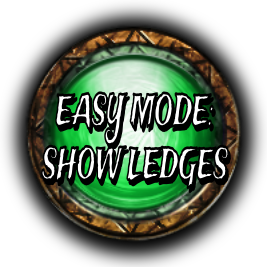
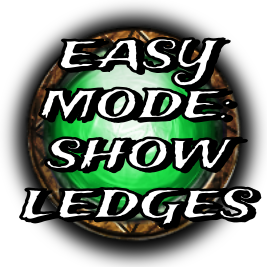
new and revamped image assets for site UI

diff --git a/public/build/scripts/states/gameState.js b/public/build/scripts/states/gameState.js
@@ -67,6 +67,7 @@ export default class gameState extends Phaser.State {
             this.game.camera.fade(0x000000, 2000);
             this.game.state.restart(true, false, { level: this._LEVEL, levels: this._LEVELS, newGame: false });
         }
+
         //platform collider
         this.game.physics.arcade.collide(this.hero, this.mapLayer);
     
@@ -82,16 +83,10 @@ export default class gameState extends Phaser.State {
         //run loot get function
         this.game.physics.arcade.overlap(this.hero, this.objectsGroup, this.getLoot, null, this);
 
-        this.hero.isOnGround = (this.hero.body.blocked.down || this.hero.body.touching.down || this.hero.body.onFloor());
-        this.hero.isBlocked = (this.hero.body.blocked.left || this.hero.body.blocked.right || this.hero.body.touching.left || this.hero.body.touching.right || this.hero.body.onWall());
-		this.hero.isAirborne = (!this.hero.isOnGround && !this.hero.isGrabbing);
+        this.heroConditions();
 
         if(this.hero.tapped && this.pointer.duration < 400) {
             this.tapJump();
-        }
-
-        if(this.hero.input.isDragged && this.pointer.duration < 300) {
-            this.tapLeap();
         }
 
         if(this.pointer.isDown) {
@@ -101,101 +96,74 @@ export default class gameState extends Phaser.State {
         if(this.pointer.isUp) {
             this.pointerUp();
         }
-
-        if(this.hero.isAirborne) {
-            if(this.runRight.isPlaying) {
-                this.runRight.stop(false, true);
-            } else if(this.runLeft.isPlaying) {
-                this.runLeft.stop(false, true);
-            } else if(this.idleLeft.isPlaying) {
-                this.idleLeft.stop(false, true);
-            } else if(this.idleRight.isPlaying) {
-                this.idleRight.stop(false, true);
-            }
-        } else if(this.hero.isOnGround) {
-            if(this.upRight.isPlaying) {
-                this.upRight.stop(false, true);
-            } else if(this.upLeft.isPlaying) {
-                this.upLeft.stop(false, true);
-            } else if (this.jumpLeft.isPlaying) {
-                this.jumpLeft.stop(false, true);
-            } else if (this.jumpRight.isPlaying) {
-                this.jumpRight.stop(false, true);
-            }
-        }
     }
 
     addControls() {
-        //jump: tap ON SPRITE
-        // leap: tap ON SPRITE and swipe: pointer movement within certain angle range
-        this.hero.events.onInputUp.add(()=>{ this.hero.tapped = false; });
-        this.hero.events.onInputOut.add(()=>{ this.hero.tapped = false; });
+        this.hero.events.onInputUp.add(()=>{ this.hero.tapped = false; }, this);
+        this.hero.events.onInputOut.add(()=>{ this.hero.tapped = false; }, this);
         this.hero.events.onInputDown.add(()=>{ 
             this.hero.tapped = true;
         });
         
         //establish pointer
         this.pointer = this.game.input.pointer1;
+    }
 
-        //pointer conditions
-        this.game.input.onDown.add(()=>{
-            this.pointerThreshold = this.game.physics.arcade.distanceToPointer(this.hero, this.pointer, true);
+    pointerConditions() {
+        this.angle = this.game.physics.arcade.angleToPointer(this.hero);
+        this.angleAbove = (this.angle > -1.8 && this.angle < -0.2);
+        this.angleBelow = (this.angle > 0.5 && this.angle < 1.5);
 
-            if(this.pointer.worldX < this.hero.body.x) {
-                this.pointerLeft = true;
-                this.pointerRight = false;
-            } else if(this.pointer.worldX > this.hero.body.x) {
-                this.pointerLeft = false;
-                this.pointerRight = true;
-            } else if(this.pointer.worldY < this.hero.body.y) {
-                this.pointerAbove = true;
-                this.pointerBelow = false;
-            } else if(this.pointer.worldY > this.hero.body.y) {
-                this.pointerAbove = false;
-                this.pointerBelow = true;
-            }
-        }, this);
+        this.pointerThreshold = this.game.physics.arcade.distanceToPointer(this.hero, this.pointer, true);
+        
+        if(this.pointer.worldX < this.hero.body.x) {
+            this.pointerLeft = true;
+            this.pointerRight = false;
+        } else if(this.pointer.worldX > this.hero.body.x) {
+            this.pointerLeft = false;
+            this.pointerRight = true;
+        }
+        if(this.pointer.worldY < this.hero.body.y) {
+            this.pointerAbove = true;
+            this.pointerBelow = false;
+        } else if (this.pointer.worldY > this.hero.body.y) {
+            this.pointerAbove = false;
+            this.pointerBelow = true;
+        }
     }
 
     pointerInput() {
-        if(this.pointerThreshold < 250 && this.pointerThreshold > this.hero.body.width && this.hero.isOnGround && !this.hero.tapped) {
-            if(this.pointerLeft) {
-                this.hero.whichDirection = 'left';
-                this.hero.body.velocity.x = -150;
-                if(this.hero.body.velocity.x < -150) {
-                    this.hero.body.velocity.x = -150;
-                }
-                this.hero.animations.play('run-left');
-            } else if(this.pointerRight) {
-                this.hero.whichDirection = 'right';
-                this.hero.body.velocity.x = 150;
-                if(this.hero.body.velocity.x > 150) {
-                    this.hero.body.velocity.x = 150;
-                }
-                this.hero.animations.play('run-right');
-            }
-        } else if(this.pointerThreshold > 250 || this.pointerThreshold < this.hero.body.width) {
-            this.pointerUp();
-        }
-    }
+        this.pointerConditions();
 
-    tapLeap() {
-        this.angle = this.game.physics.arcade.angleToPointer(this.hero);
-        this.hero.body.velocity.y = this.hero.body.velocity.y;
-        if(this.hero.body.velocity.y < -180) {
-            this.hero.body.velocity.y = -180;
-        }
-        if(this.hero.whichDirection === "left" && (this.angle < -1 && this.angle > -2.8)) {
-            this.hero.animations.play('jump-left');
-            this.hero.body.velocity.x = -180;
-            if(this.hero.body.velocity.x < -180) {
-                this.hero.body.velocity.x = -180;
+        if(!this.hero.tapped) {
+            if(this.angleAbove && this.pointerThreshold < 250 && this.pointerThreshold > this.hero.body.width && this.pointer.duration < 500) {
+                if(this.pointerLeft && !this.pointerRight) {
+                    this.hero.body.velocity.x = -150;
+                    this.hero.whichDirection = 'left';
+                    this.hero.animations.play('jump-left');
+                } else if(this.pointerRight && !this.pointerLeft) {
+                    this.hero.body.velocity.x = 150;
+                    this.hero.whichDirection = 'right';
+                    this.hero.animations.play('jump-right');
+                }
+                this.hero.body.velocity.y = -150;
+                if(this.hero.body.velocity.y < -150) {
+                    this.hero.body.velocity.y = -150;
+                }
             }
-        } else if(this.hero.whichDirection === "right" && (this.angle > -1 && this.angle < 0)) {
-            this.hero.animations.play('jump-right');
-            this.hero.body.velocity.x = 180;
-            if(this.hero.body.velocity.x > 180) {
-                this.hero.body.velocity.x = 180;
+    
+            if(!this.angleAbove && this.pointerThreshold < 250 && this.pointerThreshold > this.hero.body.width && this.hero.isOnGround) {
+                if(this.pointerLeft && !this.pointerRight) {
+                    this.hero.whichDirection = 'left';
+                    this.hero.body.velocity.x = -150;
+                    this.hero.animations.play('run-left');
+                } else if(this.pointerRight && !this.pointerLeft) {
+                    this.hero.whichDirection = 'right';
+                    this.hero.body.velocity.x = 150;
+                    this.hero.animations.play('run-right');
+                }
+            } else if(this.pointerThreshold > 250 || this.pointerThreshold < this.hero.body.width || this.angleAbove) {
+                this.pointerUp();
             }
         }
     }
@@ -222,7 +190,6 @@ export default class gameState extends Phaser.State {
     }
 
     ledgeHit(hero, ledge) {
-        //check difference between ledge coords and hero.left vs hero.right to determine which side ledge is on
         // if (this.hero.whichDirection === "left" && this.hero.body.velocity.y < 0 && this.grabKey.isDown) {
         //     hero.animations.play('grab-left');
         //     hero.alignIn(ledge, Phaser.TOP_LEFT, 15, 5); //offset accounts for sprite bounding box
@@ -268,8 +235,8 @@ export default class gameState extends Phaser.State {
         this.upRight.onComplete.add(()=> { this.hero.animations.play('idle-right'); }, this);
         this.upLeft.onComplete.add(()=> { this.hero.animations.play('idle-left'); }, this);
     
-        this.grabLeft.onStart.add(()=> { this.hero.body.immovable = true; this.hero.body.moves = false; this.hero.isGrabbing = true; this.hero.body.enable = false; this.controls.left.enabled = false; this.controls.right.enabled = false; }, this);
-        this.grabRight.onStart.add(()=> { this.hero.body.immovable = true; this.hero.body.moves = false; this.hero.isGrabbing = true; this.hero.body.enable = false; this.controls.left.enabled = false; this.controls.right.enabled = false; }, this);
+        this.grabLeft.onStart.add(()=> { this.hero.body.immovable = true; this.hero.body.moves = false; this.hero.isGrabbing = true; this.hero.body.enable = false; this.hero.isAirborne = false; /*this.controls.left.enabled = false; this.controls.right.enabled = false;*/ }, this);
+        this.grabRight.onStart.add(()=> { this.hero.body.immovable = true; this.hero.body.moves = false; this.hero.isGrabbing = true; this.hero.body.enable = false; this.hero.isAirborne = false; /*this.controls.left.enabled = false; this.controls.right.enabled = false;*/ }, this);
     
         this.climbLeft.onStart.add(()=> { 
             for (let index = 0; index < 18; index++) {
@@ -282,8 +249,8 @@ export default class gameState extends Phaser.State {
             }
         }, this);
     
-        this.climbLeft.onComplete.add(()=> { this.hero.position.x-=10; this.hero.body.enable = true; this.hero.body.immovable = false; this.hero.body.moves = true; this.hero.isGrabbing = false; this.hero.animations.play('idle-left'); this.controls.left.enabled = true; this.controls.right.enabled = true; }, this);
-        this.climbRight.onComplete.add(()=> { this.hero.position.x+=10; this.hero.body.enable = true; this.hero.body.immovable = false; this.hero.body.moves = true; this.hero.isGrabbing = false; this.hero.animations.play('idle-right'); this.controls.left.enabled = true; this.controls.right.enabled = true; }, this);
+        this.climbLeft.onComplete.add(()=> { this.hero.position.x-=10; this.hero.body.enable = true; this.hero.body.immovable = false; this.hero.body.moves = true; this.hero.isGrabbing = false; this.hero.animations.play('idle-left'); /*this.controls.left.enabled = true; this.controls.right.enabled = true;*/ }, this);
+        this.climbRight.onComplete.add(()=> { this.hero.position.x+=10; this.hero.body.enable = true; this.hero.body.immovable = false; this.hero.body.moves = true; this.hero.isGrabbing = false; this.hero.animations.play('idle-right'); /*this.controls.left.enabled = true; this.controls.right.enabled = true;*/ }, this);
     
         //play 'idle-right' by default
         this.hero.animations.play('idle-right');
@@ -321,9 +288,6 @@ export default class gameState extends Phaser.State {
         this.hero.body.setSize(this.hero.body.halfWidth-10, this.hero.body.height-5, 18, 3);
         this.hero.inputEnabled = true;
         this.hero.hitArea = this.hero.body.width * this.hero.body.height;
-        this.hero.input.enableDrag(true);
-        this.hero.input.setDragLock(true, false);
-        this.dragLimit = this.hero.body.width*3;
 		// this.hero.debug = true;
         //enable hero for slopes
         this.game.slopes.enable(this.hero);
@@ -336,7 +300,37 @@ export default class gameState extends Phaser.State {
         this.hero.isGrabbing = false;
         this.hero.tapped = false;
     }
-   
+
+    heroConditions() {
+        this.hero.isOnGround = (this.hero.body.blocked.down || this.hero.body.touching.down || this.hero.body.onFloor());
+        this.hero.isBlocked = (this.hero.body.blocked.left || this.hero.body.blocked.right || this.hero.body.touching.left || this.hero.body.touching.right || this.hero.body.onWall());
+		this.hero.isAirborne = (!this.hero.isOnGround && !this.hero.isGrabbing);
+
+        if(this.hero.isAirborne) {
+            if(this.runRight.isPlaying) {
+                this.runRight.stop(false, true);
+            } else if(this.runLeft.isPlaying) {
+                this.runLeft.stop(false, true);
+            }
+            if(this.idleLeft.isPlaying) {
+                this.idleLeft.stop(false, true);
+            } else if(this.idleRight.isPlaying) {
+                this.idleRight.stop(false, true);
+            }
+        } else if(this.hero.isOnGround) {
+            if(this.upRight.isPlaying) {
+                this.upRight.stop(false, true);
+            } else if(this.upLeft.isPlaying) {
+                this.upLeft.stop(false, true);
+            }
+            if (this.jumpLeft.isPlaying) {
+                this.jumpLeft.stop(false, true);
+            } else if (this.jumpRight.isPlaying) {
+                this.jumpRight.stop(false, true);
+            }
+        }
+    }
+
     makeMap() {
         this.map = this.game.add.tilemap(this._LEVELS[this._LEVEL]);
     
@@ -531,3 +525,98 @@ export default class gameState extends Phaser.State {
     //     this.game.debug.spriteBounds(this.hero, 'rgba(0,0,255,1)', false);
     // }
 }
+
+// // KEYBOARD CONTROLS
+// //from addControls function
+// //initiate cursor keys
+// this.controls = this.game.input.keyboard.createCursorKeys();
+// //add special controls for grab and climb
+// this.grabKey = this.game.input.keyboard.addKey(71); //'G'
+// this.climbKey = this.game.input.keyboard.addKey(67); //'C'
+
+// this.game.input.keyboard.addKeyCapture([37, 38, 39, 40 ]);
+
+// //anim-specific settings
+// this.controls.left.onUp.add(()=> { this.hero.animations.play('idle-left'); }, this);
+// this.controls.right.onUp.add(()=> { this.hero.animations.play('idle-right'); }, this);
+
+// this.controls.left.onDown.add(()=> { this.hero.whichDirection = 'left' }, this);
+// this.controls.right.onDown.add(()=> { this.hero.whichDirection = 'right' }, this);
+
+// this.climbKey.onDown.add(()=> {
+//     if (this.hero.whichDirection == 'left' && this.hero.isGrabbing) {
+//         this.hero.animations.play('climb-left');
+//     } else if (this.hero.whichDirection == 'right' && this.hero.isGrabbing) {
+//         this.hero.animations.play('climb-right');
+//     }
+// })
+
+////from update loop
+// //Running anims
+// if(this.controls.up.isUp && this.hero.isOnGround) {
+//     if (this.controls.left.isDown && this.controls.right.isUp) {
+//         this.hero.body.velocity.x = -150;
+//         this.hero.animations.play('run-left');
+//     } else if (this.controls.right.isDown && this.controls.left.isUp) {
+//         this.hero.body.velocity.x = 150;
+//         this.hero.animations.play('run-right');
+//     } 
+// } 
+
+// if(this.controls.up.isDown || this.hero.isAirborne) {
+//     if(this.runRight.isPlaying) {
+//         this.runRight.stop(false, true);
+//     } else if(this.runLeft.isPlaying) {
+//         this.runLeft.stop(false, true);
+//     } else if(this.idleLeft.isPlaying) {
+//         this.idleLeft.stop(false, true);
+//     } else if(this.idleRight.isPlaying) {
+//         this.idleRight.stop(false, true);
+//     }
+// }
+
+// //Jumping
+// if (this.controls.up.justDown && this.hero.isOnGround) {
+//     this.hero.body.velocity.y = -325;
+//     if(this.hero.body.velocity.y < -325) {
+//         this.hero.body.velocity.y = -325;
+//     }
+// }
+
+// if(this.controls.left.isUp && this.controls.right.isUp) {
+//     if (this.hero.isAirborne && this.hero.whichDirection == "left") {
+//         this.hero.animations.play('up-left');
+//     } else if (this.hero.isAirborne && this.hero.whichDirection == "right") {
+//         this.hero.animations.play('up-right');
+//     }
+// }
+
+// if(this.hero.whichDirection == "left" && this.hero.isAirborne && this.controls.left.isDown && this.controls.right.isUp) {
+//     this.hero.body.velocity.x = -180;
+//     this.hero.animations.play('jump-left');
+// } else if(this.hero.whichDirection == "right" && this.hero.isAirborne && this.controls.right.isDown && this.controls.left.isUp) {
+//     this.hero.body.velocity.x = 180;
+//     this.hero.animations.play('jump-right');
+// }
+
+// if(this.hero.isOnGround) {
+//     if(this.upRight.isPlaying) {
+//         this.upRight.stop(false, true);
+//     } else if(this.upLeft.isPlaying) {
+//         this.upLeft.stop(false, true);
+//     } else if (this.jumpLeft.isPlaying) {
+//         this.jumpLeft.stop(false, true);
+//     } else if (this.jumpRight.isPlaying) {
+//         this.jumpRight.stop(false, true);
+//     }
+// }
+
+// //ledge release
+// if(this.controls.down.isDown && (this.hero.body.immovable || !this.hero.body.moves || this.hero.isGrabbing)) {
+//     this.hero.body.immovable = false;
+//     this.hero.body.moves = true;
+//     this.hero.isGrabbing = false;
+//     this.hero.body.enable = true;
+//     this.controls.left.enabled = true;
+//     this.controls.right.enabled = true;
+// }

diff --git a/public/build/scripts/index.js b/public/build/scripts/index.js
@@ -14,7 +14,8 @@ magicdoor.addEventListener("pointerdown", ()=>{
 		transparent: false,
 		antialias: false,
 		crisp: true,
-		enableDebug: false
+		enableDebug: false,
+		maxPointers: 1
 	}
 	var game = new Phaser.Game(config);
 

diff --git a/public/build/scripts/states/boot.js b/public/build/scripts/states/boot.js
@@ -10,6 +10,7 @@ export default class Boot extends Phaser.State {
     }
     
     create() {
+        this.game.canvas.oncontextmenu = function (e) { e.preventDefault(); };
         this.state.start('Preloader');
     }
 }
